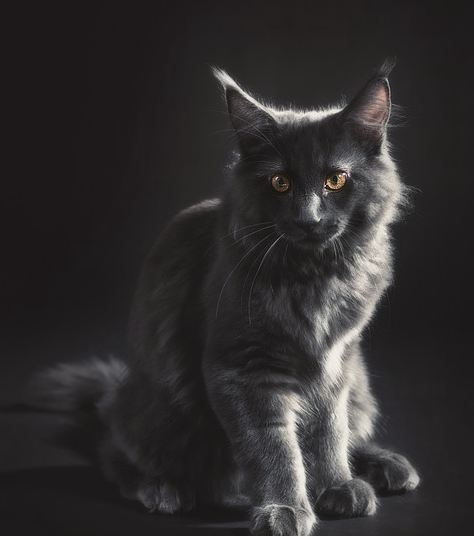
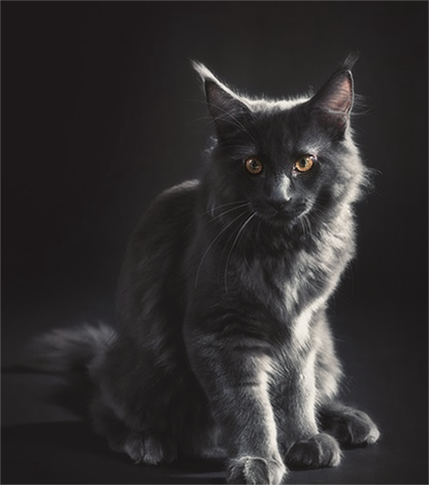
Доп. стили для блока pets и правки в шапке

diff --git a/source/index.html b/source/index.html
@@ -71,23 +71,31 @@
             <button class="cats-button" type="button" name="button">Котята</button>
           </li>
         </ul>
-        <div class="pets__img">
+        <div class="gallery__cats">
           <button class="gallery__button_left button-arrow button-arrow_left" type="button" name="button"></button>
-          <picture>
-            <source media="(min-width: 1366px)" srcset="img/png/gallery_cat_white_desktop.png, img/png/gallery_cat_white_desktop@2x.png 2x" width="517" height="214">
-            <source media="(min-width: 768px)" srcset="img/png/gallery_cat_white_tablet.png, img/png/gallery_cat_white_tablet@2x.png 2x" width="469" height="198">
-            <img class="pets__img-white-cat" src="img/png/gallery_cat_white_mobile.png" srcset="img/png/gallery_cat_white_mobile@2x.png 2x" alt="Белая кошка" width="519" height="214">
-          </picture>
-          <picture>
-            <source media="(min-width: 1366px)" srcset="img/png/gallery_cat_colorful_desktop.png, img/png/gallery_cat_colorful_desktop@2x.png 2x" width="519" height="241">
-            <source media="(min-width: 768px)" srcset="img/png/gallery_cat_colorful_tablet.png, img/png/gallery_cat_colorful_tablet@2x.png 2x" width="418" height="198">
-            <img class="pets__img-white-cat" src="img/png/gallery_cat_colorful_mobile.png" srcset="img/png/gallery_cat_colorful_mobile@2x.png 2x" alt="Разноцветная кошка" width="521" height="214">
-          </picture>
-          <picture>
-            <source media="(min-width: 1366px)" srcset="img/png/gallery_cat_gray_desktop.png, img/png/gallery_cat_gray_desktop@2x.png 2x" width="474" height="536">
-            <source media="(min-width: 768px)" srcset="img/png/gallery_cat_gray_tablet.png, img/png/gallery_cat_gray_tablet@2x.png 2x" width="474" height="547">
-            <img class="pets__img-white-cat" src="img/png/gallery_cat_gray_mobile.png" srcset="img/png/gallery_cat_gray_mobile@2x.png 2x" alt="Серая кошка" width="234" height="248">
-          </picture>
+          <ul class="gallery__list">
+            <li class="gallery__item img-white-cat">
+              <picture class="gallery__img">
+                <source media="(min-width: 1366px)" srcset="img/png/gallery_cat_white_desktop.png, img/png/gallery_cat_white_desktop@2x.png 2x" width="517" height="214">
+                <source media="(min-width: 768px)" srcset="img/png/gallery_cat_white_tablet.png, img/png/gallery_cat_white_tablet@2x.png 2x" width="469" height="198">
+                <img class="gallery__img-cat" src="img/png/gallery_cat_white_mobile.png" srcset="img/png/gallery_cat_white_mobile@2x.png 2x" alt="Белая кошка" width="519" height="214">
+              </picture>
+            </li>
+            <li class="gallery__item img-colorful-cat">
+              <picture class="gallery__img">
+                <source media="(min-width: 1366px)" srcset="img/png/gallery_cat_colorful_desktop.png, img/png/gallery_cat_colorful_desktop@2x.png 2x" width="519" height="241">
+                <source media="(min-width: 768px)" srcset="img/png/gallery_cat_colorful_tablet.png, img/png/gallery_cat_colorful_tablet@2x.png 2x" width="418" height="198">
+                <img class="gallery__img-cat" src="img/png/gallery_cat_colorful_mobile.png" srcset="img/png/gallery_cat_colorful_mobile@2x.png 2x" alt="Разноцветная кошка" width="521" height="214">
+              </picture>
+            </li>
+            <li class="gallery__item img-gray-cat">
+              <picture class="gallery__img">
+                <source media="(min-width: 1366px)" srcset="img/png/gallery_cat_gray_desktop.png, img/png/gallery_cat_gray_desktop@2x.png 2x" width="429" height="485">
+                <source media="(min-width: 768px)" srcset="img/png/gallery_cat_gray_tablet.png, img/png/gallery_cat_gray_tablet@2x.png 2x" width="474" height="547">
+                <img class="gallery__img-cat" src="img/png/gallery_cat_gray_mobile.png" srcset="img/png/gallery_cat_gray_mobile@2x.png 2x" alt="Серая кошка" width="234" height="248">
+              </picture>
+            </li>
+          </ul>
           <button class="gallery__button_right button-arrow button-arrow_right" type="button" name="button"></button>
         </div>
         <a class="gallery__link-button link-button" href="#">Смотреть больше</a>

diff --git a/source/sass/blocks/gallery.scss b/source/sass/blocks/gallery.scss
@@ -1,7 +1,14 @@
+.gallery__cats {
+  position: relative;
+}
+
 .gallery__link-button {
   display: inline-block;
   margin: 0;
   margin-top: 45px;
+  @media (min-width: $tablet-width){
+    margin-top: 55px;
+  }
 }
 
 .gallery__button_left {
@@ -10,6 +17,10 @@
   left: 15px;
   @media (min-width: $tablet-width) {
     left: 30px;
+    top: 240px;
+  }
+  @media (min-width: $desktop-width) {
+    display: none;
   }
 }
 
@@ -19,5 +30,64 @@
   right: 15px;
   @media (min-width: $tablet-width) {
     right: 30px;
+    top: 270px;
   }
+  @media (min-width: $desktop-width) {
+    display: none;
+  }
+}
+
+.gallery__list {
+  list-style: none;
+  margin: 0 auto;
+  padding: 0;
+  text-align: center;
+  @media (min-width: $desktop-width) {
+    max-height: 530px;
+    display: flex;
+    flex-direction: column;
+    flex-wrap: wrap;
+  }
+}
+
+.gallery__item {
+  @media (min-width: $desktop-width) {
+    display: flex;
+    margin-bottom: 30px;
+  }
+}
+
+.gallery__img {
+  display: block;
+  width: auto;
+  height: auto;
+  margin: 0 auto;
+  @media (min-width: $desktop-width) {
+    margin: 0;
+    padding: 0;
+  }
+}
+
+.img-white-cat,
+.img-colorful-cat {
+  display: none;
+  @media (min-width: $desktop-width) {
+    display: flex;
+    justify-content: flex-end;
+    margin-right: 15px;
+  }
+}
+
+.img-gray-cat {
+  @media (min-width: $desktop-width) {
+    justify-content: flex-start;
+    margin-left: 15px;
+  }
+}
+
+.gallery__img-cat {
+  display: block;
+  width: auto;
+  height: auto;
+  margin: 0 auto;
 }

diff --git a/source/sass/blocks/pets.scss b/source/sass/blocks/pets.scss
@@ -5,6 +5,11 @@
   background-color: $dark-brown;
   @media (min-width: $tablet-width){
     padding: 100px 30px;
+    padding-bottom: 90px;
+  }
+  @media (min-width: $desktop-width) {
+    padding: 223px 140px;
+    padding-bottom: 83px;
   }
 }
 
@@ -23,6 +28,9 @@
   @media (min-width: $tablet-width){
     max-width: 516px;
   }
+  @media (min-width: $desktop-width){
+    margin-bottom: 100px;
+  }
 }
 
 .pets__button-list {
@@ -34,8 +42,7 @@
   padding: 0;
   margin-top: 38px;
   margin-bottom: 40px;
-}
-
-.pets__img {
-  position: relative;
+  @media (min-width: $desktop-width) {
+    display: none;
+  }
 }

diff --git a/source/sass/blocks/header-social.scss b/source/sass/blocks/header-social.scss
@@ -1,3 +1,22 @@
+.header-social {
+  position: relative;
+}
+
+.header-social::after {
+  @media(min-width: $desktop-width) {
+    content: "";
+    display: flex;
+    justify-content: center;
+    position: absolute;
+    width: 1px;
+    height: 77px;
+    background-color: $basic-white;
+    text-align: center;
+    top: -110px;
+    left: 8px;
+  }
+}
+
 .header-social__list {
   width: 16px;
   display: flex;

diff --git a/source/sass/blocks/header.scss b/source/sass/blocks/header.scss
@@ -43,9 +43,11 @@
 }
 
 .header__social {
+  display: none;
   margin: 0;
   padding: 0;
   @media (min-width: $tablet-width){
+    display: block;
     margin-top: 60px;
     margin-left: 43px;
   }

diff --git a/source/sass/blocks/buttons.scss b/source/sass/blocks/buttons.scss
@@ -40,6 +40,7 @@
     border: 1px solid $basic-beige;
     border-top-color: transparent;
     border-right-color: transparent;
+    cursor: pointer;
   }
 }
 
